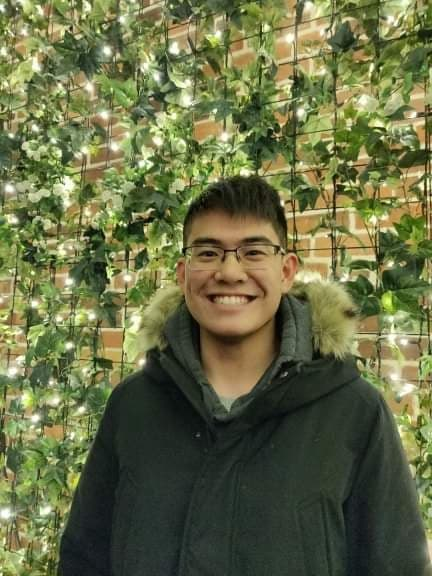
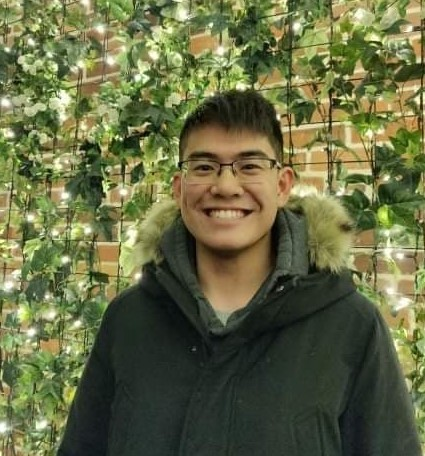
add pic in small view

diff --git a/index.html b/index.html
@@ -118,9 +118,8 @@
                     </div>
                     <div class="col-xs-12 col-md-6 text">
                         <h1>Biography</h1>
-                        <p>I currently study Software Engineering & Management at McMaster University located in Hamilton, Ontario. 
-                            Courses that I have taken include:
-                        </p>
+                        <img class="rounded-circle d-xs-flex d-md-none" id="thumbnail" src="./img/profile.jpg" alt="">
+                        <div class="divider"></div>
                         <p>I currently study Software Engineering & Management at McMaster University located in Hamilton, Ontario. 
                             Courses that I have taken include:
                         </p>
@@ -259,10 +258,11 @@
             <div class="row" id="reveal-about">
                 <div class="col-12 sect-sm pink" >
                     <div class="d-none d-md-flex rounded">
-                        <img id=profile src="./img/profile2.jpg" alt="">
+                        <img id="profile" src="./img/profile2.jpg" alt="">
                     </div>
                     <div class="col-xs-12 col-md-6 text">
                         <h1>Hello World</h1>
+                        <img class="rounded-circle d-xs-flex d-md-none" id="thumbnail" src="./img/profile2.jpg" alt="">
                         <div class="divider"></div>
                         <div class="text-left"> 
                             <p>I currently study Software Engineering & Management at McMaster University located in Hamilton, Ontario. 
@@ -286,7 +286,7 @@
         <section class="container-fluid px-0 black">
             <div class="text-center">
                 <br>
-                <p>Updated: May 2020</p>
+                <p>Designed & Developed by Edwin Do | Updated: May 2020</p>
                 <br>
             </div>
         </section>

diff --git a/css/app.css b/css/app.css
@@ -55,6 +55,10 @@
         .text p{
             font-size:14px;
         }
+        #thumbnail{
+            width: 35%;
+            height: auto;
+        }
         
     }
 
@@ -88,6 +92,10 @@
 
         .text p{
             font-size:16px;
+        }
+        #thumbnail{
+            width: 30%;
+            height: auto;
         }
 
     }

diff --git a/css/sections.css b/css/sections.css
@@ -74,7 +74,7 @@
     text-align: center;
     height: 3px;
     background-color: white;
-    margin: 60px auto 30px;
+    margin: 30px auto 30px;
     width: 60px;
 }
 
@@ -99,7 +99,7 @@
 }
 
 .sect-sm{
-    height: 45em;
+    height: 55em;
     width: 100%;
     display : flex;
     align-items : center;
